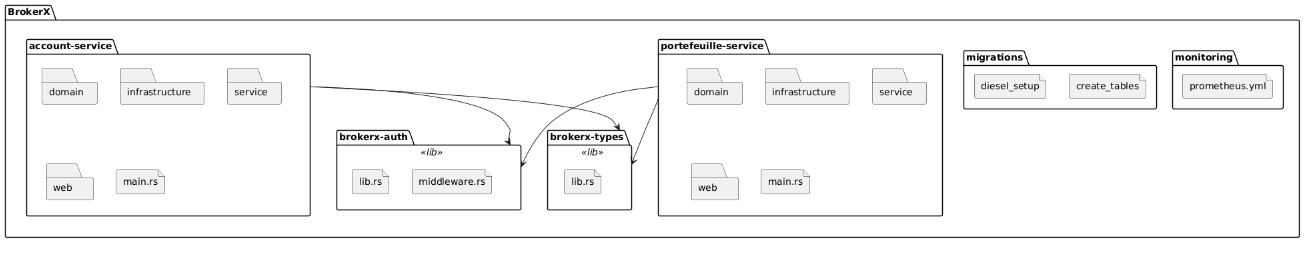
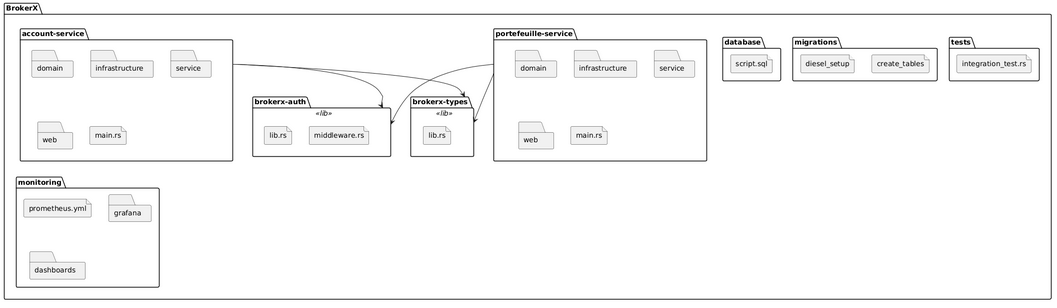
check du monitoring

diff --git a/docs/arc42_phase2.md b/docs/arc42_phase2.md
@@ -80,6 +80,27 @@ Ainsi 2 bases de données sont gérées :
 ### 5.2 Diagramme de paquetage
 ![Paquetage](images/diagramme_paquetage_phase2.png)
 
+Le diagramme de paquetage présente la structure logique du système en microservices et la répartition des responsabilités entre les différents modules. Chaque ùicroservices constitue un paquetage autonome et organisé.
+
+**Organisation général**
+- **account-service** : Gère tout ce qui concerne les comptes clients, de l’inscription à l’authentification, en passant par la gestion du profil et la vérification KYC/AML.
+    - domain : règles métier et entités (Compte, Client).
+    - service : logique applicative, orchestrations métiers.
+    - infrastructure : accès aux bases de données, configuration, intégration avec d’autres services.
+    - web : expose les endpoints RESTful et gère les requêtes entrantes.
+
+- **portefeuille-service** : Responsable de la gestion des portefeuilles financiers, incluant l’approvisionnement, les transactions et la consultation des soldes.
+    - Structure similaire à account-service, séparant clairement domaine, service, infrastructure et web.
+
+- **brokerx-auth** : Bibliothèque interne fournissant les middlewares pour sécuriser les API.
+
+- **brokerx-types** : Contient les DTOs et types partagés entre microservices pour assurer la cohérence et simplifier les échanges.
+
+- **monitoring** : Centralise tous les éléments d’observabilité et de supervision. Ce dossier contient :
+    - prometheus.yml : configuration de Prometheus pour la collecte des métriques applicatives et systèmes.
+    - grafana/ : dashboards Grafana et fichiers de configuration (dashboards.yml, datasources/prometheus.yml) pour visualiser les 4 Golden Signals (latence, débit, erreurs, saturation).
+    - dashboards/brokerx_microservices_dashboard.json : dashboard prêt à l’emploi pour surveiller les microservices BrokerX+.
+  
 ## 6. Vue d'exécution 
 La phase 2 reprend la meme vu d'exécution que la phase 1, aucun UC n'a été ajouté par manque de temps. Le travail a été centré sur la division en microservices, l'observabilité et la persistance.
 ### 6.1 Description des 3 UC Must
@@ -426,4 +447,4 @@ Enfin pour lancer chaque service dans 2 terminals :
 Vous pourrez lancer : 
 - localhost:8080 et localhost:8081 pour les 2 services 
 - localhost:9090 pour Prometheus
-- localhost:3000 pour Grafana
+- localhost:3001 pour Grafana
